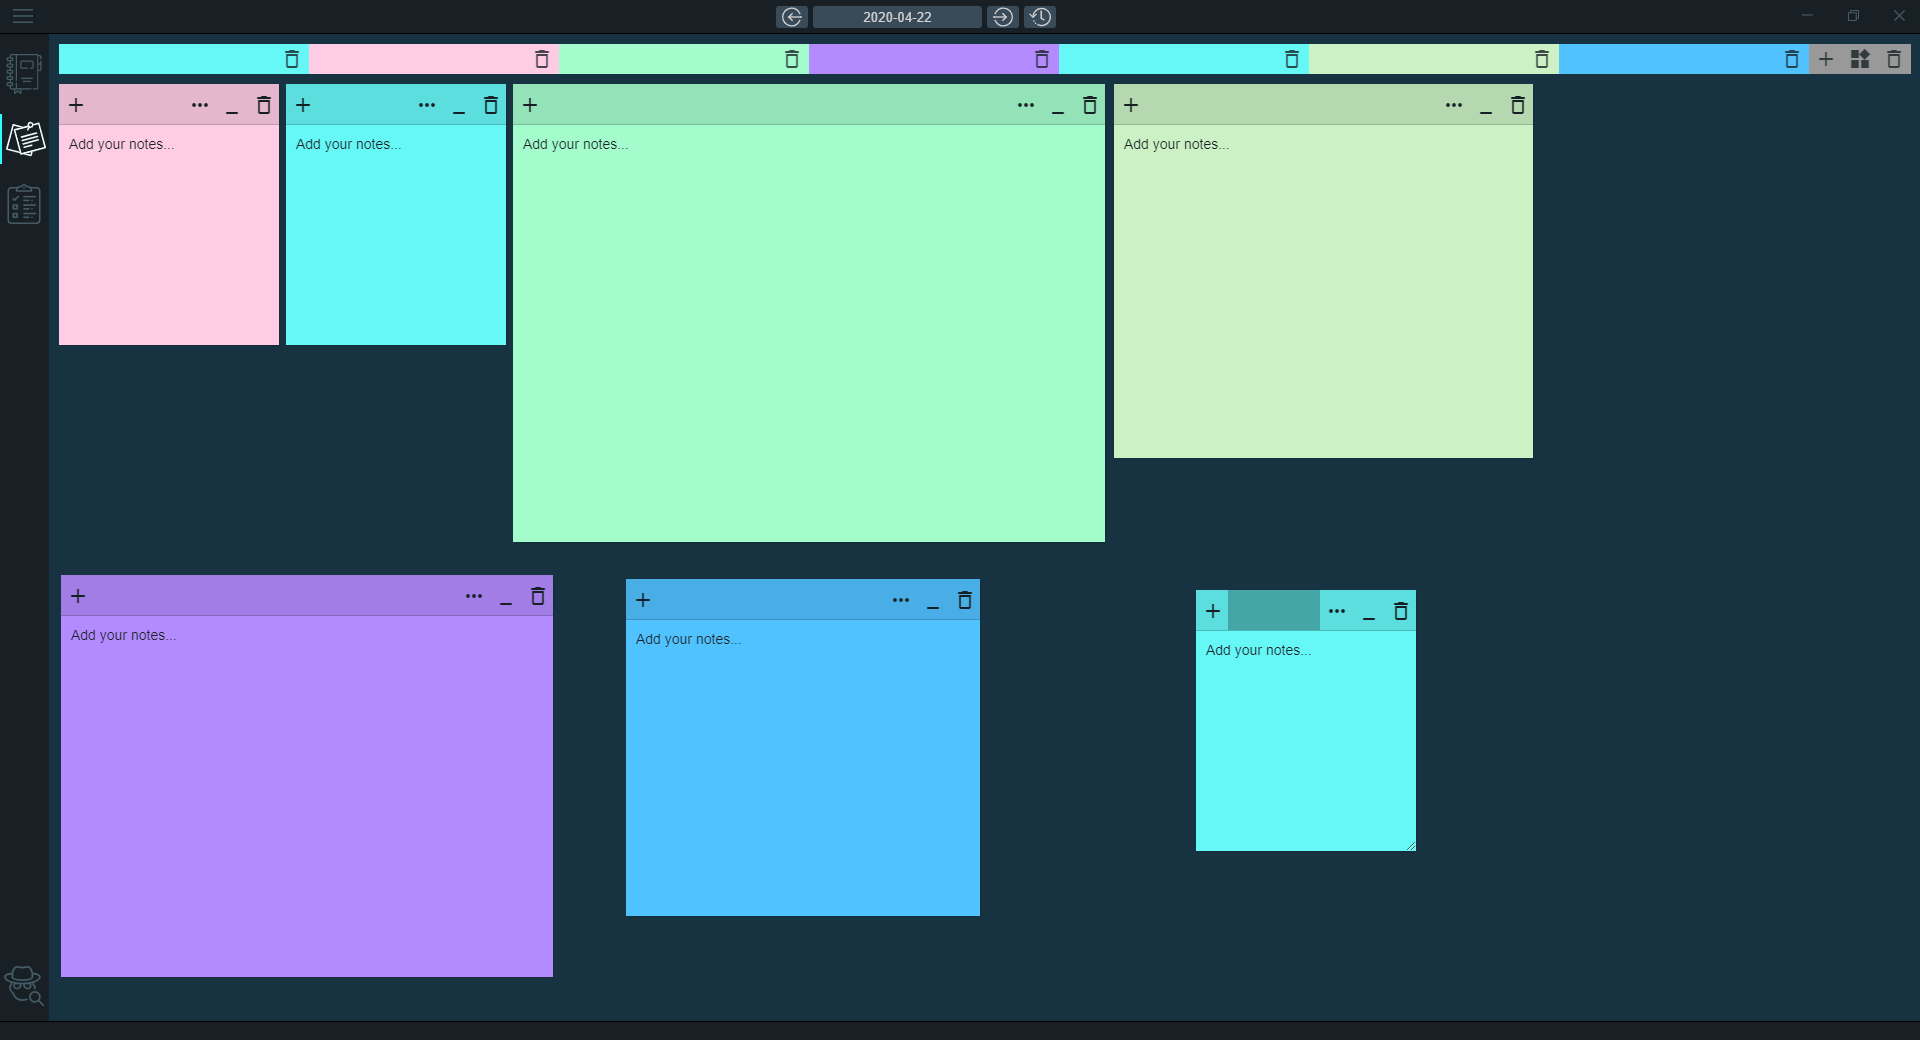
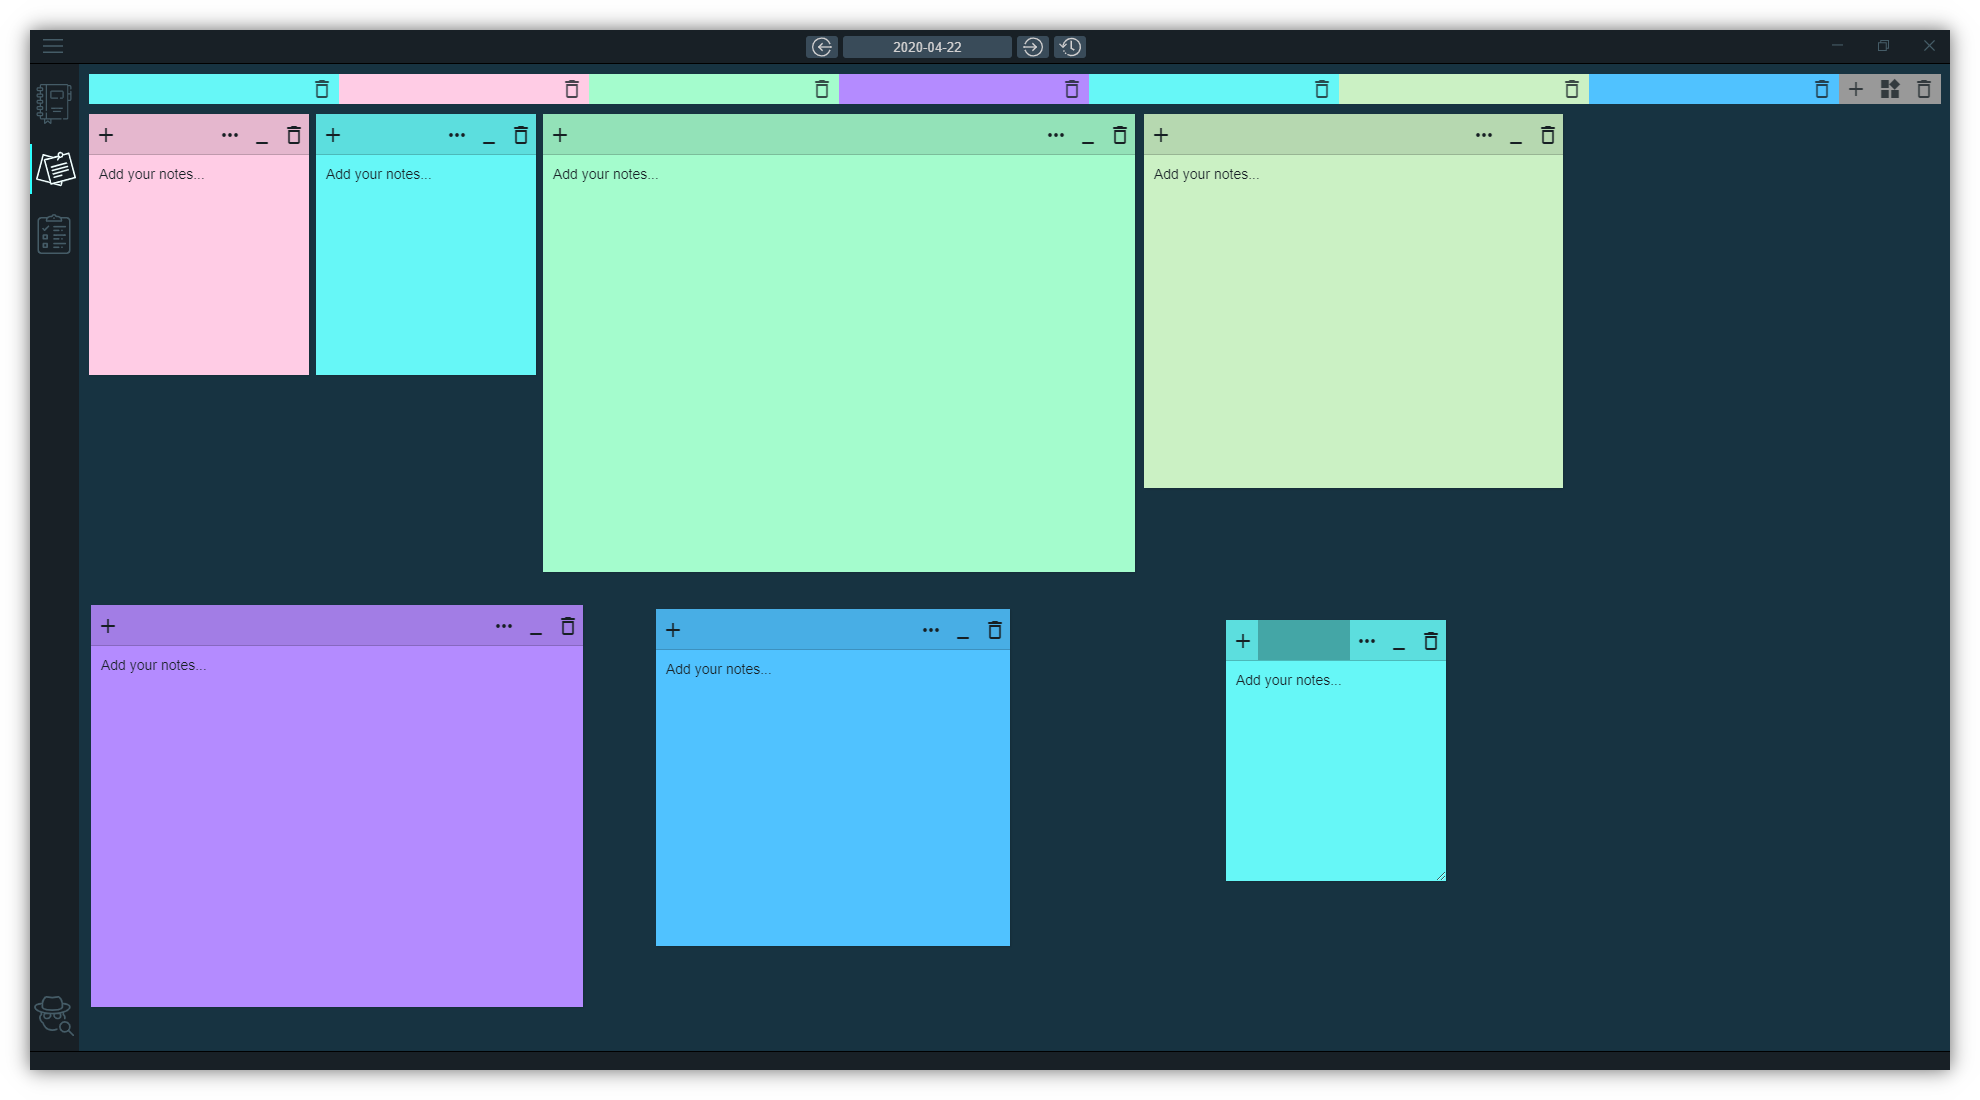
Upated Readme.md file

Changed region(s): [[0.0, 0.0, 1.0, 1.0], [0.5938, 0.5538, 0.75, 0.8308]]

diff --git a/README.md b/README.md
@@ -3,7 +3,7 @@ Flawesome is a modern productivity tool that will help you organise your day-tod
 <Enter>
 All the three application components i.e. The Notebook, The Sticky Notes and The Todolist are driven by the Calendar.
 
-<img src="assets/ScreenshotTab1New.png" alt="Application Tab 1 Screenshot"/>
+<img src="assets/ScreenshotTab1.png" alt="Application Tab 1 Screenshot"/>
 
 <img src="assets/ScreenShotTab2.png" alt="Application Tab 2 Screenshot"/>
 
